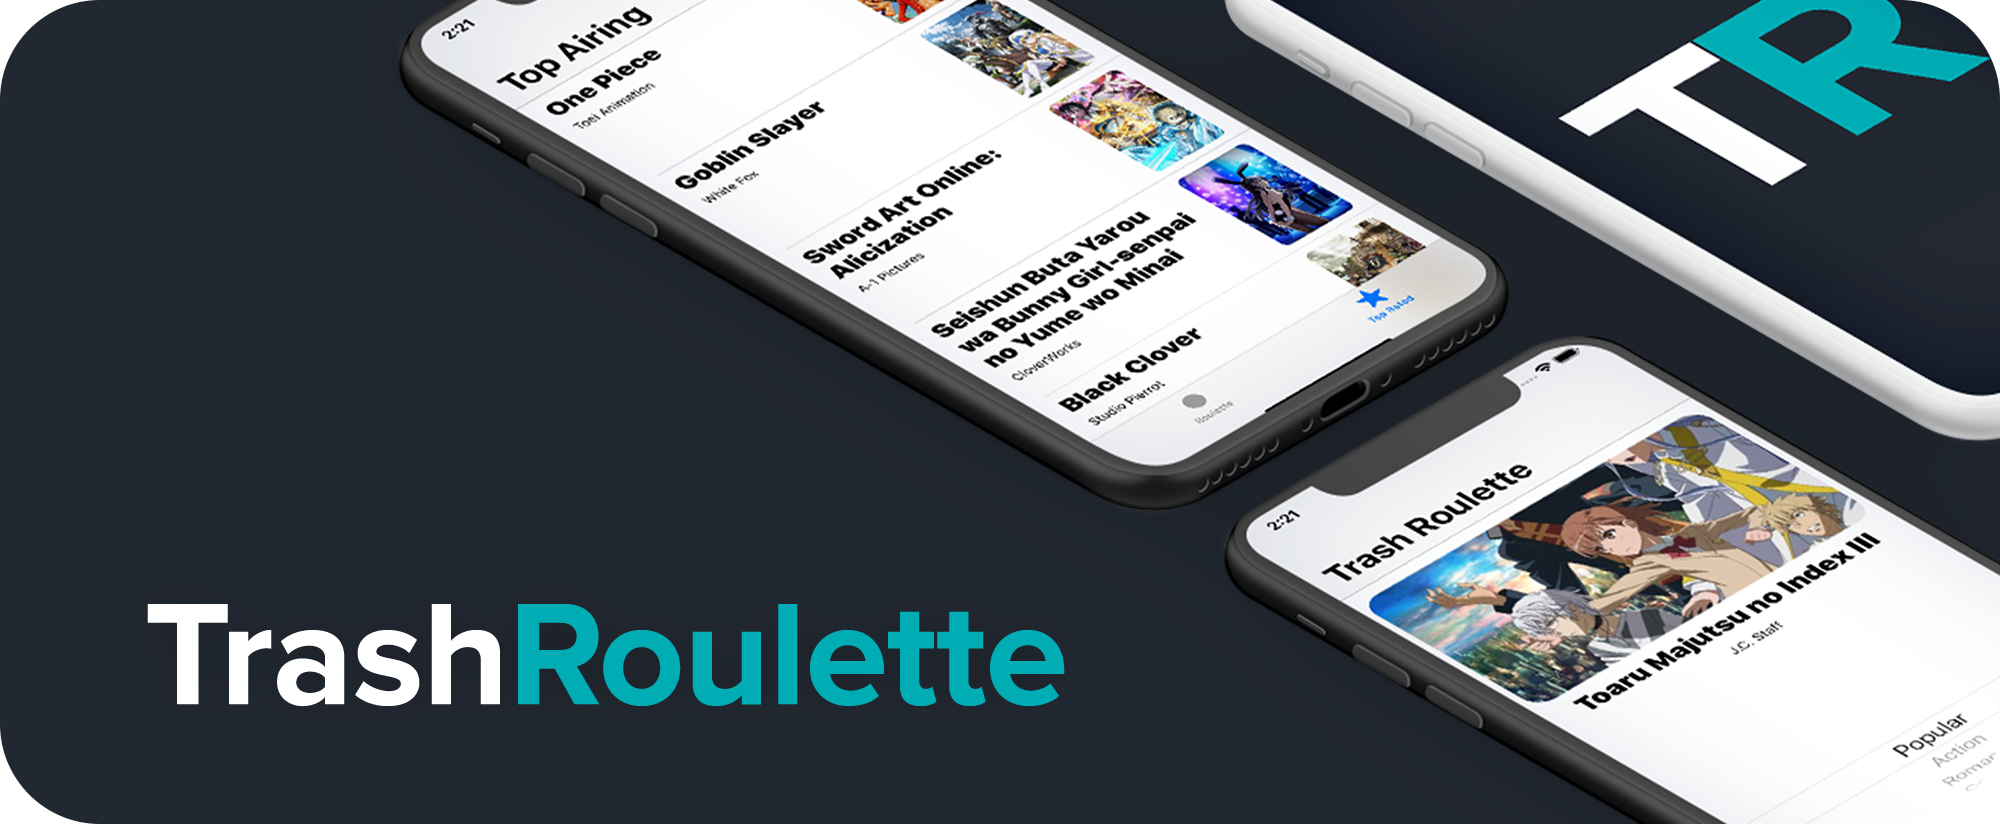
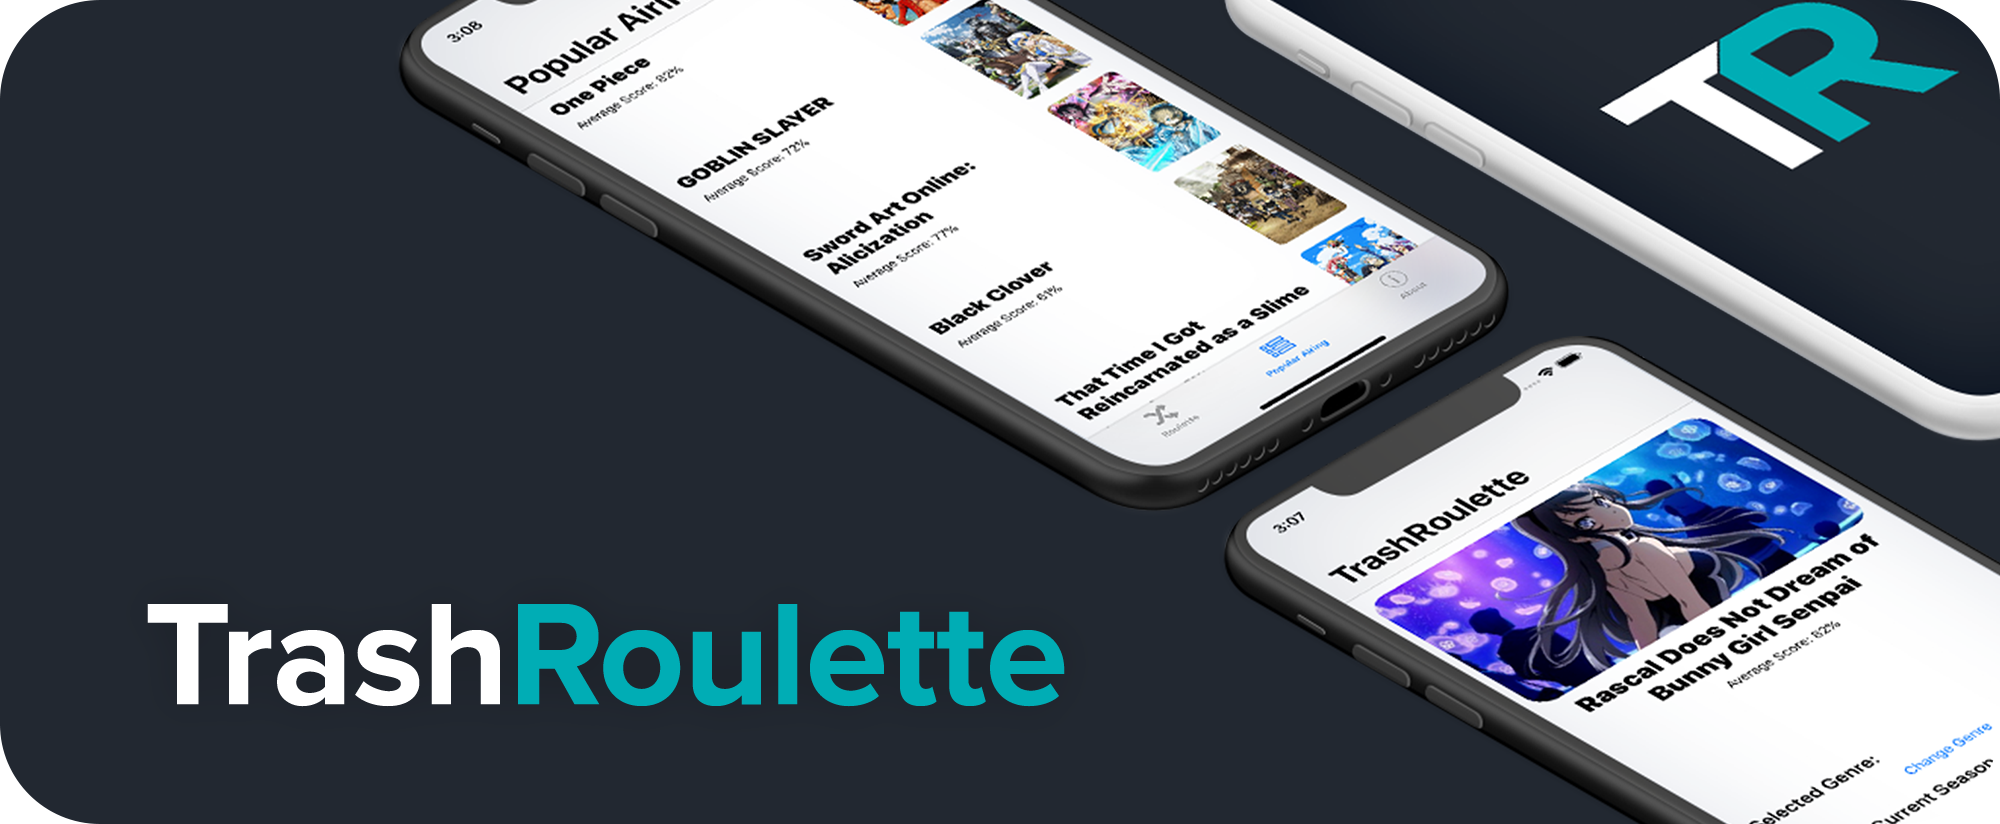
Working (#29)
* implemented ads

* changed image preview assets to represent changes in ui

diff --git a/TrashRoulette/Controller/rouletteViewController.swift b/TrashRoulette/Controller/rouletteViewController.swift
@@ -9,6 +9,7 @@
 import UIKit
 import JGProgressHUD
 import PickerPopupDialog
+import GoogleMobileAds
 
 class rouletteViewController: UIViewController {
     
@@ -19,6 +20,9 @@ class rouletteViewController: UIViewController {
     @IBOutlet weak var showArt: UIImageView!
     @IBOutlet weak var isAiringUISwitch: UISwitch!
     
+    // Google Ads
+    var interstitial: GADInterstitial!
+    
     // Initialize picker
     let pickerView = PickerPopupDialog()
     let pickerQueryTypes : [(Any, String)] = [(1, "Popular"), (2, "Action"), (3, "Romance"), (4, "Comedy"), (5, "Adventure"), (6, "Drama"), (7, "Ecchi"), (8, "Fantasy"), (9, "Horror"), (10, "Mahou Shoujo"), (11, "Mecha"), (12, "Music"), (13, "Mystery"), (14, "Psychological"), (15, "Sci-Fi"), (16, "Slice of Life"), (17, "Sports"), (18, "Supernatural"), (19, "Thriller")]
@@ -26,7 +30,9 @@ class rouletteViewController: UIViewController {
     
     override func viewDidLoad() {
         super.viewDidLoad()
-        // Do any additional setup after loading the view, typically from a nib.
+        
+        // Init interstitial
+        interstitial = GADInterstitial(adUnitID: "ca-app-pub-3940256099942544/4411468910")
         
         // Clear Title and Rating
         self.showTitle.text = ""
@@ -45,6 +51,12 @@ class rouletteViewController: UIViewController {
         showArt.layer.cornerRadius = 20
         isAiringUISwitch.setOn(true, animated: false)
         grabPopular()
+        
+        // Load interstitial ad
+        let request = GADRequest()
+        request.testDevices = [ "6897da95070b60bbb1c8caab4aead016" , kGADSimulatorID ]
+        interstitial.load(request)
+        
     }
     
     // MARK: Haptic feedback when user toggles the switch
@@ -69,6 +81,11 @@ class rouletteViewController: UIViewController {
         // MARK: Invoke haptic feedback on button press
         let feedback = UIImpactFeedbackGenerator(style: .medium)
         feedback.impactOccurred()
+        
+        // Present Ad (Will only show on first press as to not be too intrusive)
+        if interstitial.isReady {
+            interstitial.present(fromRootViewController: self)
+        }
         
         if (self.rouletteQuery != "Popular") {
             runQuery(genre: self.rouletteQuery)
@@ -97,10 +114,8 @@ class rouletteViewController: UIViewController {
         // Get show title
         if (data[data.index(Int(randomIndex), offsetBy:0)]?.title?.english != nil) {
             // If an english title exists, use it
-            print("== English Title")
             self.showTitle.text = data[data.index(Int(randomIndex), offsetBy:0)]?.title?.english
         } else { // Else use the romaji version
-            print("== Romaji Title")
             self.showTitle.text = data[data.index(Int(randomIndex), offsetBy:0)]?.title?.romaji
         }
         
@@ -127,10 +142,8 @@ class rouletteViewController: UIViewController {
         // Get show title
         if (data[data.index(Int(randomIndex), offsetBy:0)]?.title?.english != nil) {
             // If an english title exists, use it
-            print("== English Title")
             self.showTitle.text = data[data.index(Int(randomIndex), offsetBy:0)]?.title?.english
         } else { // Else use the romaji version
-            print("== Romaji Title")
             self.showTitle.text = data[data.index(Int(randomIndex), offsetBy:0)]?.title?.romaji
         }
         
@@ -188,10 +201,8 @@ class rouletteViewController: UIViewController {
         // Get show title
         if (data[data.index(Int(randomIndex), offsetBy:0)]?.title?.english != nil) {
             // If an english title exists, use it
-            print("== English Title")
             self.showTitle.text = data[data.index(Int(randomIndex), offsetBy:0)]?.title?.english
         } else { // Else use the romaji version
-            print("== Romaji Title")
             self.showTitle.text = data[data.index(Int(randomIndex), offsetBy:0)]?.title?.romaji
         }
         
@@ -203,6 +214,8 @@ class rouletteViewController: UIViewController {
     // MARK: Grab data for all popular shows
     fileprivate func grabPopularData(_ data: [GetPopularShowsQuery.Data.Page.Medium?], _ randomIndex: UInt32) {
         // DEBUG
+        print("== Random Number: \(randomIndex)")
+        print("Size of Array: \(data.count)")
         
         // Get show rating
         let averageScoreHolder = data[data.index(Int(randomIndex), offsetBy:0)]?.averageScore
@@ -217,10 +230,8 @@ class rouletteViewController: UIViewController {
         // Get show title
         if (data[data.index(Int(randomIndex), offsetBy:0)]?.title?.english != nil) {
             // If an english title exists, use it
-            print("== English Title")
             self.showTitle.text = data[data.index(Int(randomIndex), offsetBy:0)]?.title?.english
         } else { // Else use the romaji version
-            print("== Romaji Title")
             self.showTitle.text = data[data.index(Int(randomIndex), offsetBy:0)]?.title?.romaji
         }
         
